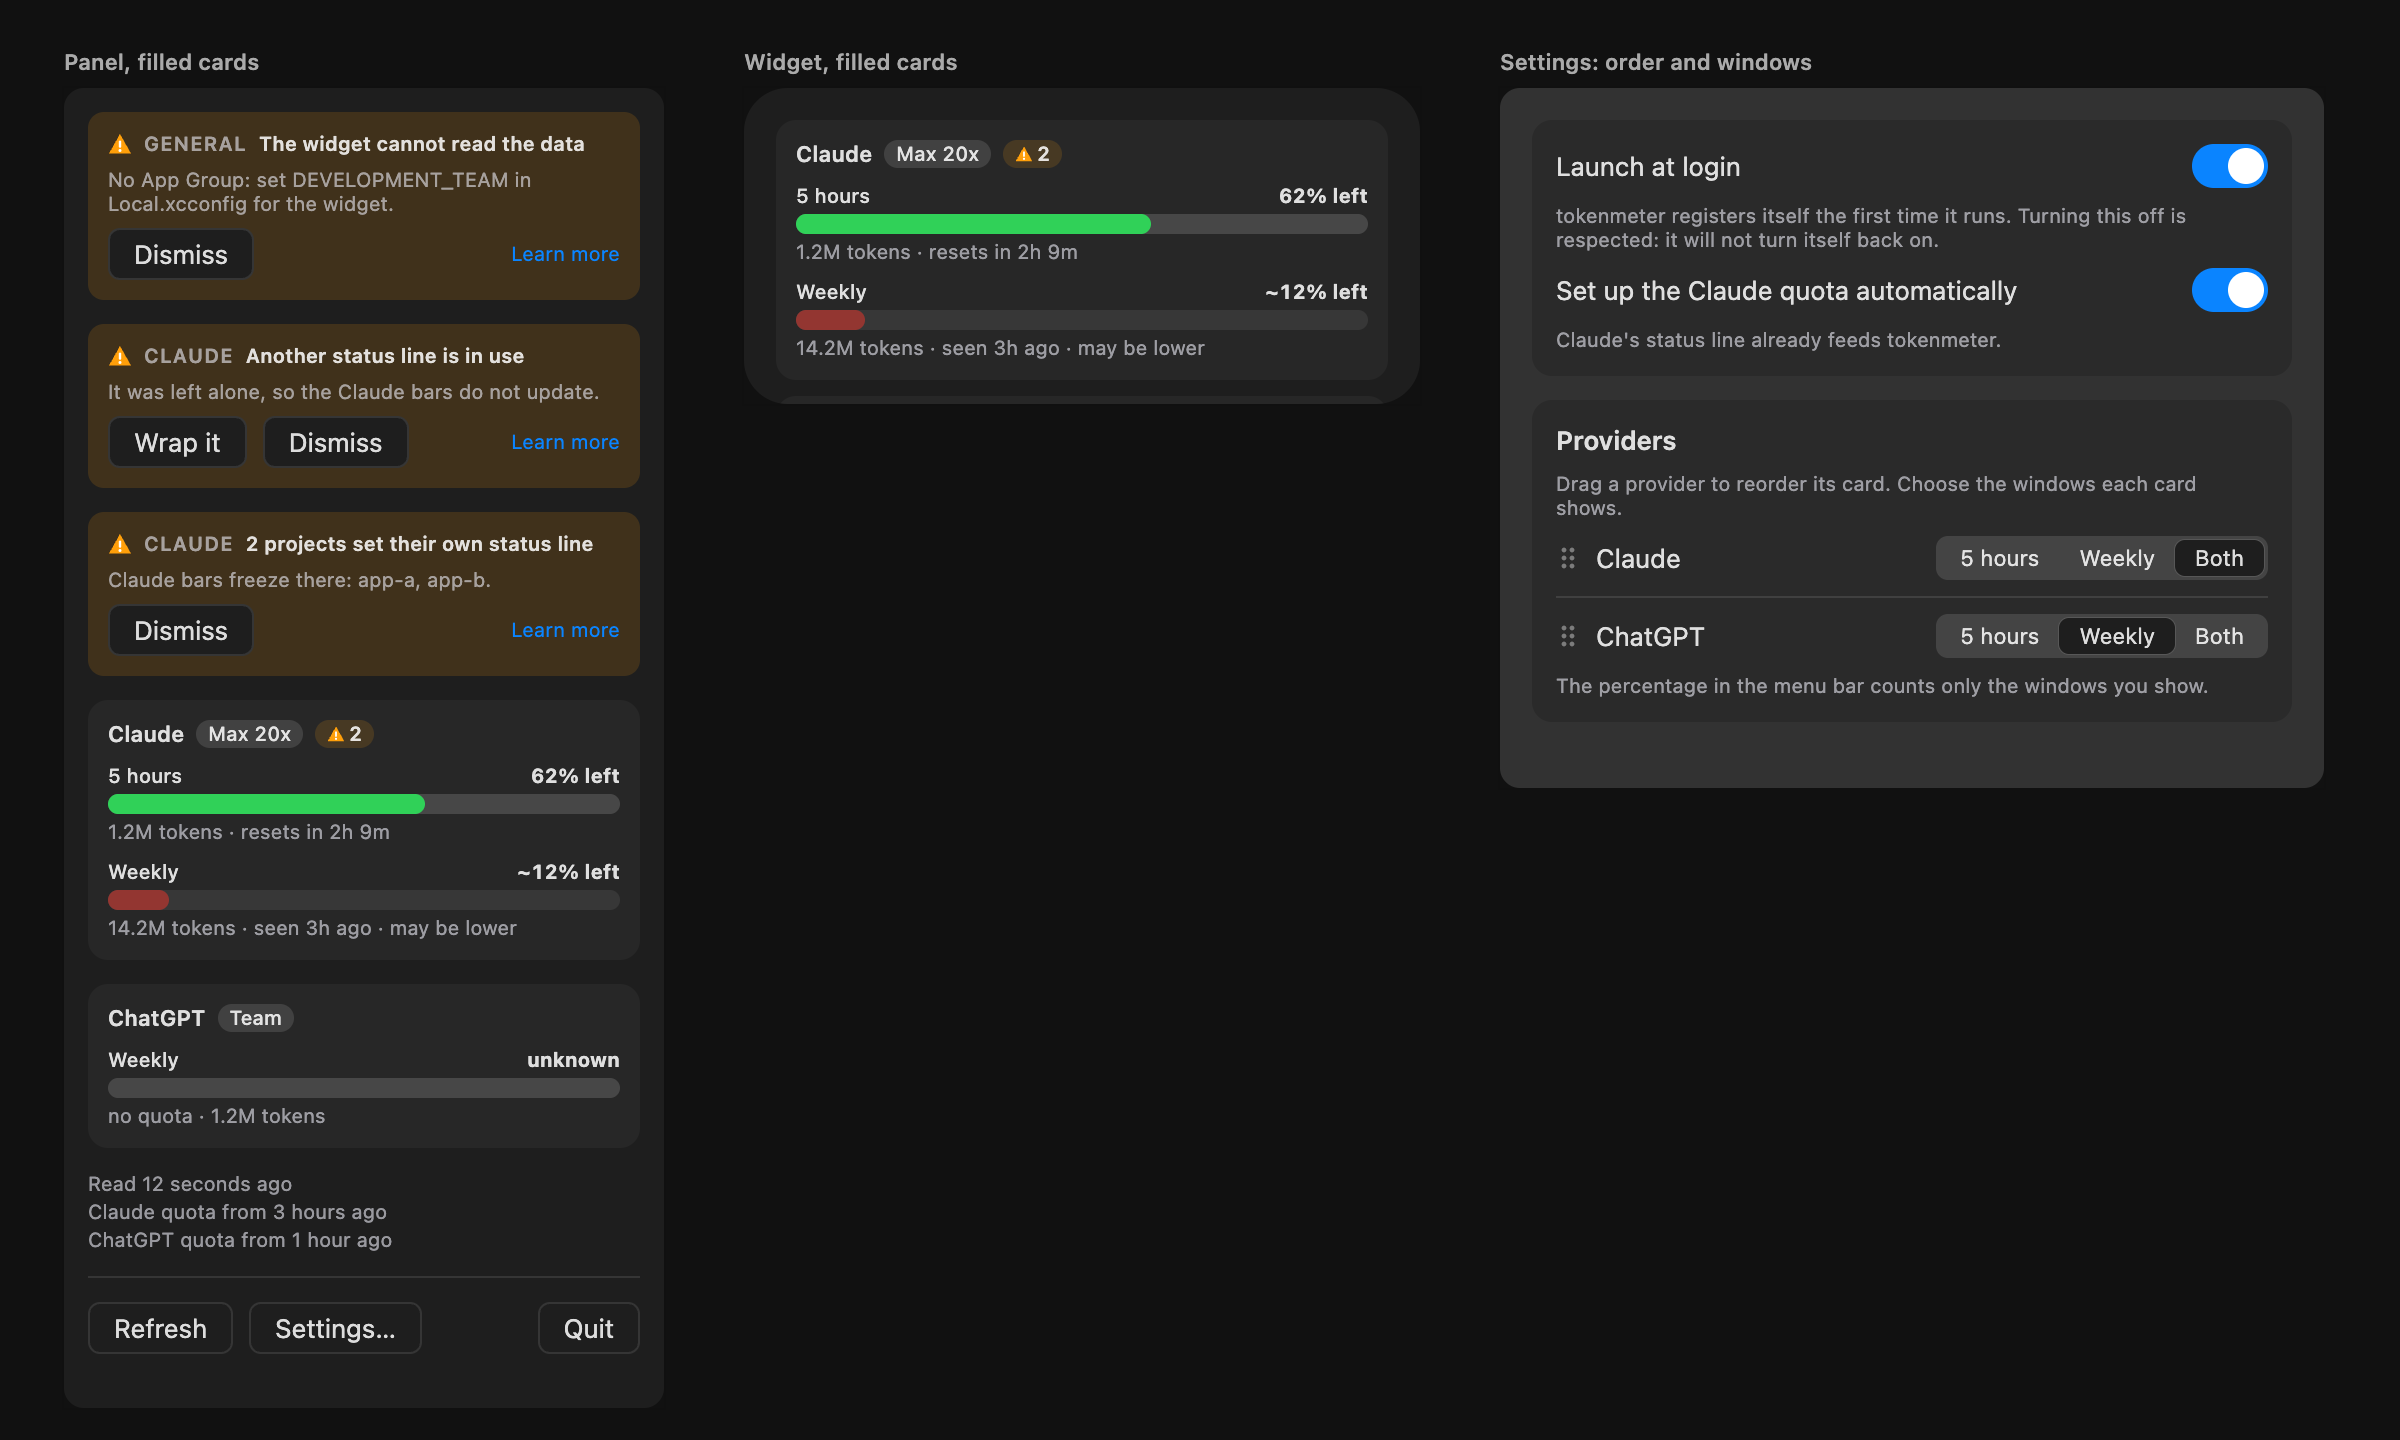
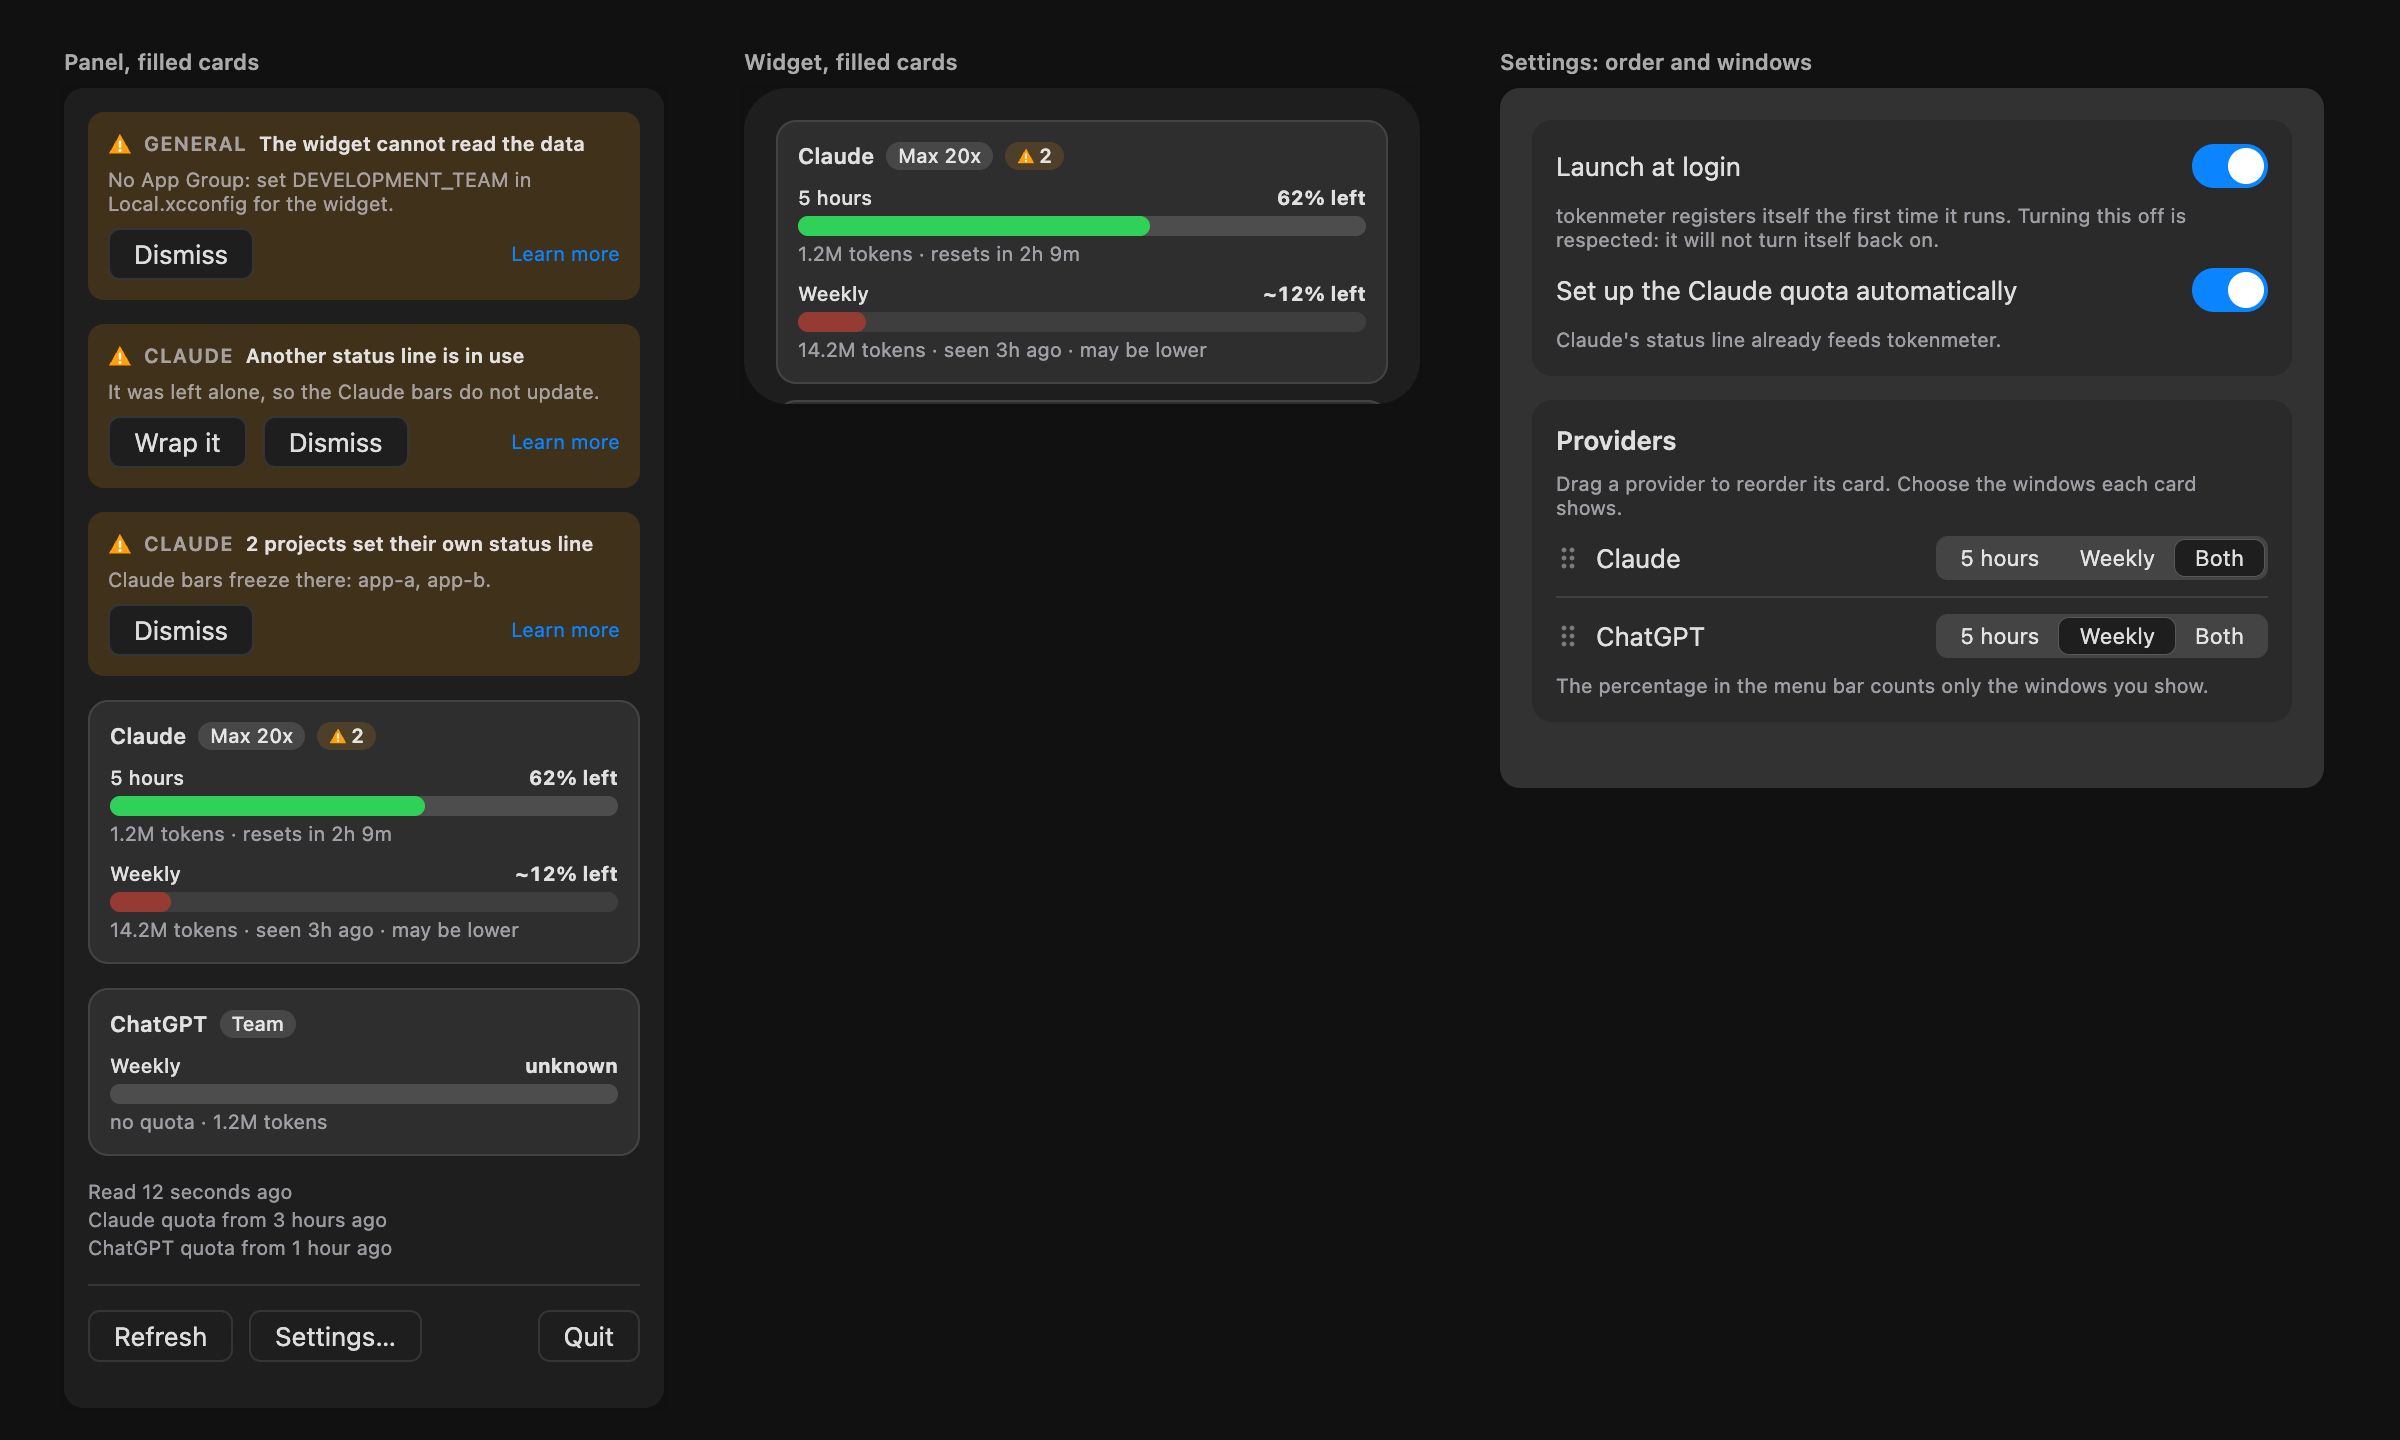
docs: record the stronger card look and refresh its screenshots

diff --git a/docs/features/2026-10-30-provider-cards/proposal.md b/docs/features/2026-10-30-provider-cards/proposal.md
@@ -34,8 +34,9 @@ Light and dark, as drawn. Claude shows both windows and ChatGPT only Weekly, in 
 
 ## Rules
 
-- **The card is filled** with the colour of the text at 4% (`Color.primary`), a `radius-group` corner and `space-10` of
-  padding. It has no border. It is a new token, `card-fill`, proposed here.
+- **The card is filled** with the colour of the text at 7% (`Color.primary`) and has a hairline of the same colour at 10%
+  (`border-divider`), a `radius-group` corner and `space-10` of padding. The fill is a new token, `card-fill`. At 4% and
+  with no hairline the first build did not read as a group on the dark panel.
 - **Both is the default.** A provider nobody touched looks as before, inside a card.
 - **At least one window always stays visible.** Choosing the only visible window again does nothing.
 - **A hidden window is ignored.** It is not drawn, it is not in the menu-bar percentage, and it raises no problem.

diff --git a/docs/adr/0035-provider-cards-order-and-windows-are-preferences.md b/docs/adr/0035-provider-cards-order-and-windows-are-preferences.md
@@ -25,8 +25,8 @@ makes each provider a card, with a choice of windows and an order set in Setting
   window always stays visible.
 - **A hidden window is out of every figure shown.** The menu-bar percentage is the lowest of the visible windows, and a
   hidden one raises no problem.
-- **The card uses system colours only** (`Color.primary` at 4% for its fill, the text styles and the existing tints), so
-  the light and the dark appearance both hold without a value written for either.
+- **The card uses system colours only** (`Color.primary` at 7% for its fill and at 10% for its hairline, the text styles and
+  the existing tints), so the light and the dark appearance both hold without a value written for either.
 
 ## Consequences
 
